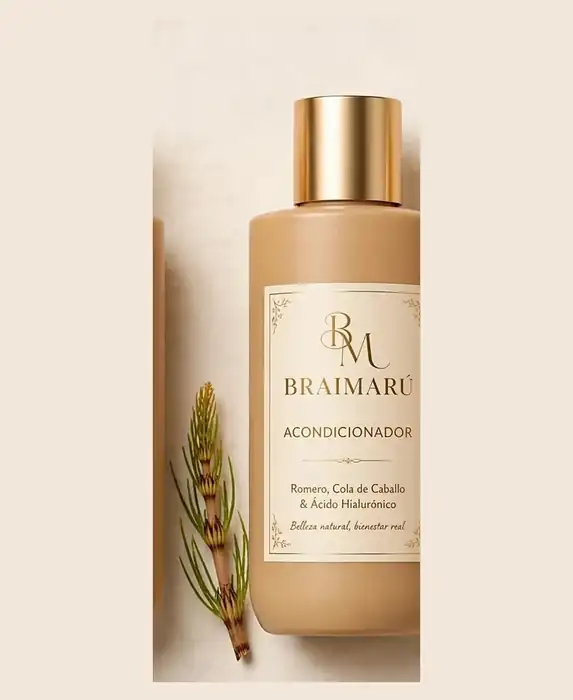
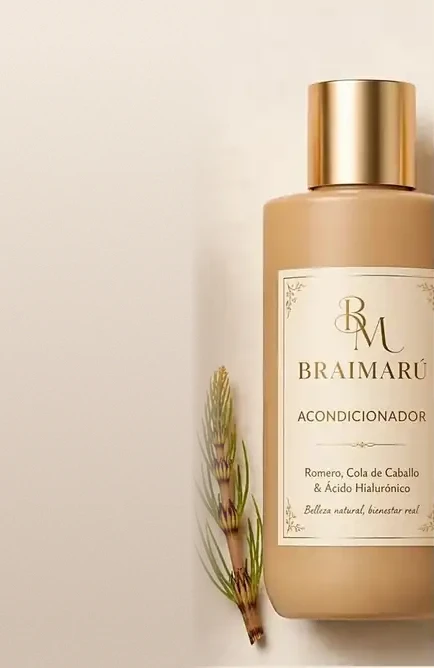
fix(assets): clean shampoo, conditioner and body-oil photos

diff --git a/src/data/artDirection.ts b/src/data/artDirection.ts
@@ -20,9 +20,11 @@ const MAP: Record<string, ArtDirection> = {
   // legacy source (still served by older catalog rows): crop away the cream strip + stray text
   'aceite-corporal-01.webp': { position: '80% 52%', scale: 1.38, origin: '80% 54%' },
   'aceite-cafe-naranja.webp': { position: '50% 38%' },
-  'aceite-naranja-calendula.webp': { position: '50% 50%' },
-  'shampoo-capilar-v11.webp': { position: '50% 48%', scale: 1.06, origin: '50% 50%' },
-  'acondicionador-capilar-v11.webp': { position: '50% 48%', scale: 1.06, origin: '50% 50%' },
+  // baked-in ingredient infographic painted out of the wall (unconfirmed claims); both caps stay in frame
+  'aceite-naranja-calendula.webp': { position: '50% 20%' },
+  // both bottles were re-framed (clean wall, no cream strip); no extra zoom needed
+  'shampoo-capilar-v11.webp': { position: '50% 50%' },
+  'acondicionador-capilar-v11.webp': { position: '30% 52%' },
   'termoprotector-capilar.webp': { position: '50% 46%' },
   // soap on gold: "IDEAL PARA:" fragment lives at the very bottom of the source
   'jabon-canela-clavos.webp': { position: '50% 22%', scale: 1.22, origin: '50% 24%' },
@@ -55,4 +57,17 @@ export function artStyle(src: string | null | undefined): Record<string, string 
     '--ad-scale': art.scale ?? 1,
     '--ad-origin': art.origin ?? 'center',
   };
+}
+
+/**
+ * Static photos that were re-framed after the catalog rows were created. Rows stored in D1 keep
+ * pointing at the old file name, so the storefront swaps them here instead of touching the data.
+ */
+const IMAGE_UPGRADES: Record<string, string> = {
+  '/products/aceite-corporal-01.webp': '/products/aceite-canela-clavos-v2.webp',
+};
+
+export function upgradeImage<T extends string | null | undefined>(src: T): T {
+  if (!src) return src;
+  return (IMAGE_UPGRADES[src as string] ?? src) as T;
 }

diff --git a/src/lib/api/catalogAdapter.ts b/src/lib/api/catalogAdapter.ts
@@ -1,3 +1,4 @@
+import { upgradeImage } from '../../data/artDirection';
 import type { ApiCategory, ApiProduct } from './types';
 import type { Category, Product, ProductCategory, RitualTag } from '../../types/catalog';
 
@@ -37,7 +38,7 @@ export function adaptApiProduct(input: ApiProduct): Product | null {
     description: input.description ?? undefined,
     benefits: input.benefits.filter((benefit) => typeof benefit === 'string'),
     priceCop: input.price_cop,
-    image: input.image_url,
+    image: upgradeImage(input.image_url),
     imageAlt: input.image_url ? `${input.name} BRAIMARÚ` : '',
     featured: input.featured,
     active: input.active,
